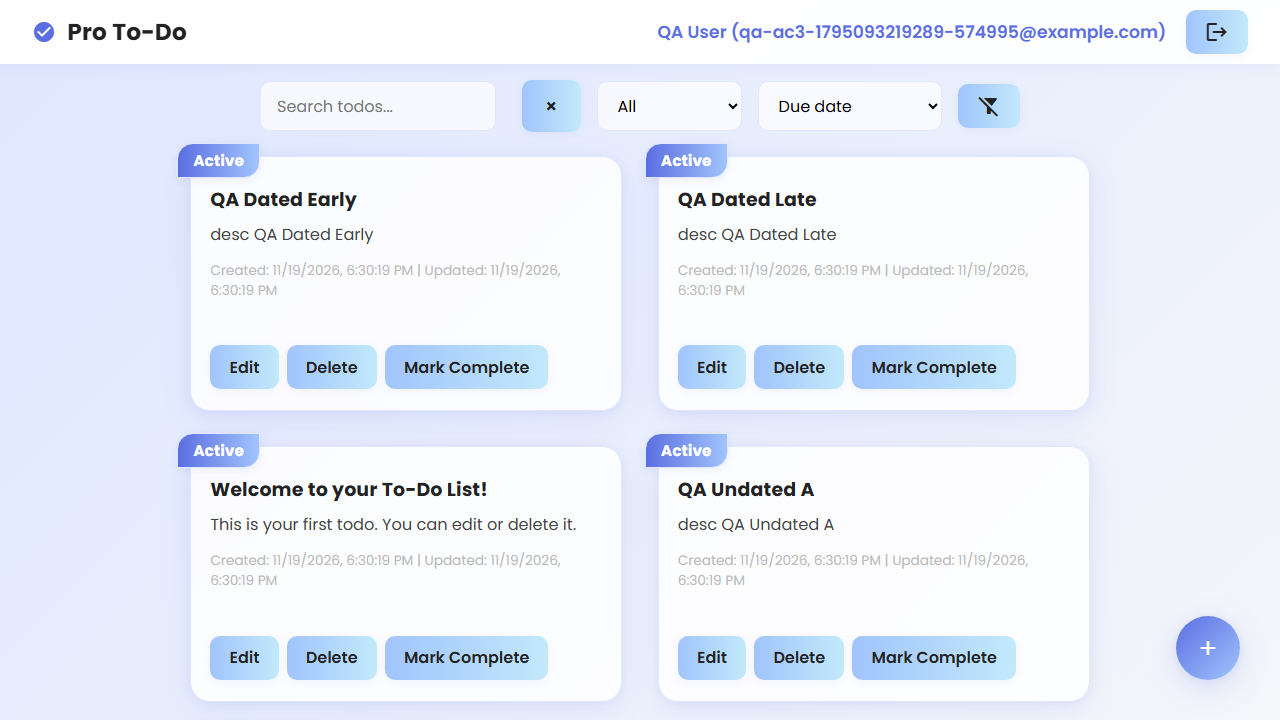
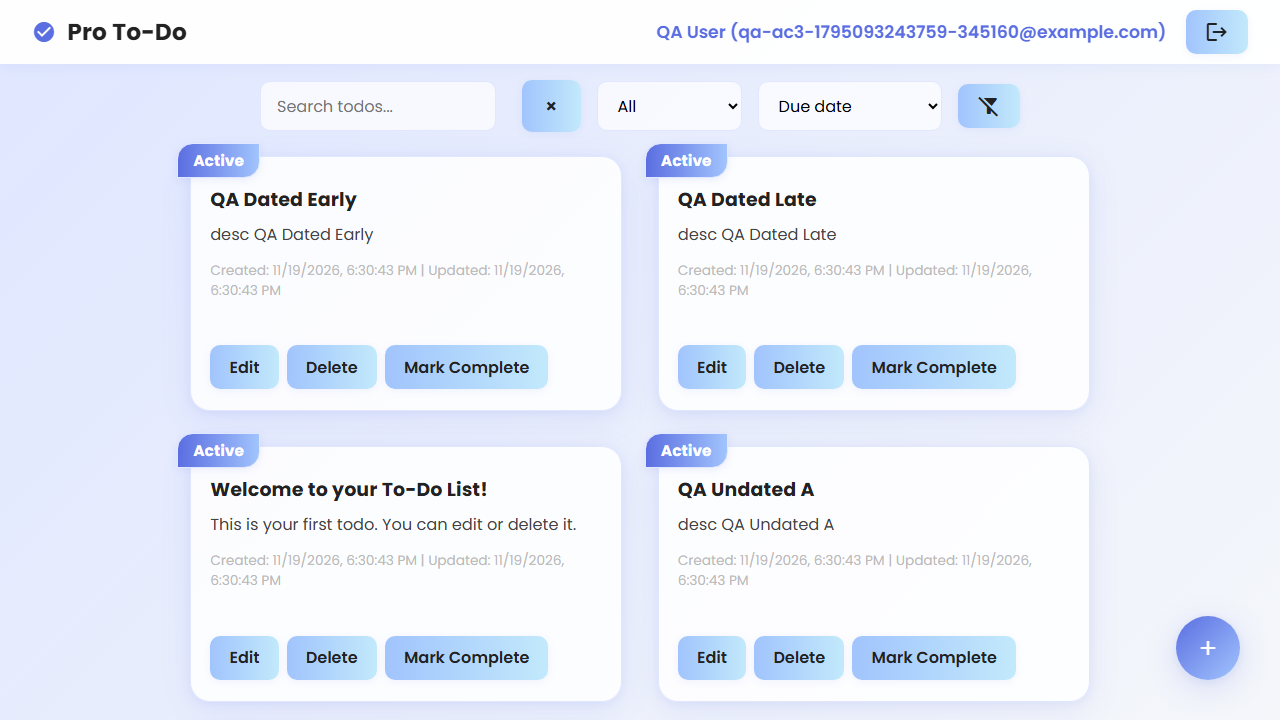
Add QA tests and execution results for KAN-152

diff --git a/qa/test-execution-results.md b/qa/test-execution-results.md
@@ -1,0 +1,103 @@
+# QA Test Execution Results - KAN-152 "Add 'Sort by due date' option in ToDo UI"
+
+| Item | Value |
+|------|-------|
+| PR | #16 (https://github.com/SoumyaRathi/Codemie-ToDoApp/pull/16) |
+| Branch | KAN-152 |
+| Tested commit SHA | `57a4ef6ef8c64f0383b3a1f6038a3239a313ab6c` |
+| Executed | 2026-11-19, about 18:31 IST |
+| Environment | Windows 11 Enterprise 10.0.26200, Node v24.21.0, npm 11.19.0 |
+| Tooling | Jest 30.5.2 + Supertest 6.3.3, Playwright 1.65.1 (Chromium, headless) |
+
+The tests ran on a clean tracked tree at the SHA above. The commit that adds this report changes only this file and the regenerated screenshots in `qa/screenshots/`. No code under test differs from the tested SHA.
+
+## Findings from the code (what the tests are based on)
+
+- Sort control: `<select id="sort-select" data-testid="sort-select">` in `index.html`. Options: `Sort by Created`, `Sort by Updated`, `Sort by Title`, and the new `Due date` (value `dueDate`). **The new option is labelled "Due date", not "Sort by due date".** The tests assert the label that is actually in the PR.
+- Due date field: `dueDate`, a `YYYY-MM-DD` string. It is omitted from the todo object when not set. The API accepts a valid value, `null` or `""` (clears it), and rejects anything else with 400 `{ field: "dueDate" }`.
+- Ordering rule (`compareByDueDate` in `todoServer.js`): ascending by `dueDate`, undated todos last, ties and undated-vs-undated broken by `id` ascending. The tests assert exactly this.
+- Persistence: the selected sort is stored in `sessionStorage` (`todoapp.sort`) and restored on reload.
+- Auth: the UI requires login. E2E tests register a unique user through the API, then log in through the UI login form. Each new user automatically gets one undated "Welcome to your To-Do List!" todo, which the expected orders account for.
+- The UI has no due-date input and does not display `dueDate` on cards. Todos with due dates are therefore created through the API in the E2E setup, and ordering is asserted via card titles.
+
+## Commands executed (exact)
+
+```
+git fetch origin
+git checkout KAN-152
+git pull
+npm ci
+npm install --save-dev jest@^30.5.2 @playwright/test@^1.64.1
+npx playwright install chromium
+npx jest --config qa/jest.config.js --verbose      # also available as: npm run test:api
+npm run test:e2e                                   # = playwright test --config qa/playwright.config.js
+npm test                                           # existing suite: node --test "test/**/*.test.js"
+```
+
+Isolation: both suites use temporary data files through the `TODOS_FILE`, `USERS_FILE` and `SESSIONS_FILE` env overrides, so the repo's real `todos.json`, `users.json` and `sessions.json` are never touched. The E2E server runs on port 3100 (`PORT` env). Temp data is removed in teardown.
+
+## Results summary
+
+| Suite | Total | Passed | Failed | Skipped | Blocked |
+|-------|------:|-------:|-------:|--------:|--------:|
+| API (Jest + Supertest) | 12 | 12 | 0 | 0 | 0 |
+| E2E (Playwright, Chromium) | 6 | 6 | 0 | 0 | 0 |
+| **Overall** | **18** | **18** | **0** | **0** | **0** |
+
+Regression check (not counted above): the existing `npm test` suite (node:test, from the review-blocker commit) passed 8 of 8.
+
+Overall status: **PASS**
+
+## Test case detail
+
+### API (Jest + Supertest) - `qa/api/dueDateSort.api.test.js`
+
+| ID | Title | AC | Type | Result |
+|----|-------|----|------|--------|
+| API-01 | POST /todos with dueDate stores and returns the dueDate field | AC2 | API | PASS |
+| API-02 | POST /todos without dueDate is retrievable and has no dueDate value | AC3 | API | PASS |
+| API-03 | GET /todos?sort=dueDate returns dated todos in ascending dueDate order | AC2 | API | PASS |
+| API-04 | GET /todos?sort=dueDate places every undated todo after all dated todos | AC3 | API | PASS |
+| API-05 | Seeded data produces the exact expected order (ties and undated by id asc) | AC2, AC3 | API | PASS |
+| API-06 | Repeated requests return an identical order (deterministic) | AC3 | API | PASS |
+| API-07 | sort=dueDate combined with filter and search keeps due-date ordering | AC2 | API | PASS |
+| API-08 | User with only undated todos gets 200, all todos listed, ordered by id | AC3 | API | PASS |
+| API-09 | Todos of other users are never included in the sorted list | AC2 | API | PASS |
+| API-10 | PUT with a new dueDate re-positions the todo; PUT with null clears it to the end | AC2 | API | PASS |
+| API-11 | Invalid dueDate values are rejected with 400 | AC2 | API | PASS |
+| API-12 | GET /todos?sort=dueDate without auth returns 401 | AC2 | API | PASS |
+
+Evidence: Jest JSON result `numTotalTests: 12, numPassedTests: 12, numFailedTests: 0, numPendingTests: 0`; console summary `Tests: 12 passed, 12 total`.
+
+### E2E (Playwright, Chromium headless) - `qa/e2e/dueDateSort.spec.js`
+
+| ID | Title | AC | Type | Result | Evidence |
+|----|-------|----|------|--------|----------|
+| E2E-AC1-01 | Sort control is visible and offers a selectable "Due date" option | AC1 | E2E | PASS | `qa/screenshots/ac1-sort-control.png` |
+| E2E-AC2-01 | Selecting "Due date" reorders todos by due date ascending | AC2 | E2E | PASS | `qa/screenshots/ac2-sorted-by-due-date.png` |
+| E2E-AC2-02 | Due date sort stays applied after a page reload (session persistence) | AC2 | E2E | PASS | assertions in spec |
+| E2E-AC3-01 | Todos without a due date stay visible and are placed after dated todos | AC3 | E2E | PASS | `qa/screenshots/ac3-undated-last.png` |
+| E2E-AC3-02 | Placement of undated todos is deterministic across re-sorts and reloads | AC3 | E2E | PASS | assertions in spec |
+| E2E-AC3-03 | A user with only undated todos sees them all, without errors | AC3 | E2E | PASS | assertions in spec |
+
+Console summary of the final run: `6 passed (11.2s)`.
+
+What the E2E tests assert:
+- **AC1:** the select is visible and enabled, exactly one `Due date` option with value `dueDate`, the full option list is `Sort by Created / Updated / Title / Due date`, selecting it works, and the feedback banner shows `Sort: Due date`.
+- **AC2:** three todos are created out of due-date order. The default (created) order is `Middle, Soonest, Later, Welcome`. After selecting Due date the UI shows `Soonest (2026-01-05), Middle (2026-05-20), Later (2026-09-30), Welcome`.
+- **AC3:** undated todos are all displayed, after the dated ones, in id order. The order is identical after switching to Title and back, and after a reload. An all-undated user gets the list with no page errors.
+
+## Notes and defects
+
+1. **No product defects found** against the KAN-152 acceptance criteria.
+2. **First E2E run: 6 of 6 failed, due to a test-setup bug, not a product bug.** The temporary data directory did not exist, so the server could not write `users.json`, and login after signup returned 401. Fixed in `qa/playwright.config.js` by creating the directory; the rerun and the final run passed 6 of 6. The final figures above are from the final run on the tested SHA.
+3. **Label mismatch with the planning documents:** the PR label is "Due date"; `IMPLEMENTATION_PLAN.md` and the Confluence Plan page say "Sort by Due Date". The story AC says "Due date", so this is consistent with the AC.
+4. **Observation (out of scope, not changed):** `POST /signup` returns 201 even when writing `users.json` fails (the write error is swallowed). This is what hid the setup problem in note 2.
+5. **Observation (out of scope, not changed):** the UI cannot set or display a due date, so the sort can only be exercised with todos created through the API. The sort's effect is not visible to a user except through card order.
+6. **Test hooks added to product code (behavior unchanged):** `data-testid="sort-select"` (`index.html`), `data-testid="todo-card"` and `data-testid="todo-title"` (`public/script.js`), and `PORT` env override (`todoServer.js`).
+7. **Dependencies:** `jest` and `@playwright/test` were added to `devDependencies`. They were already installed locally but not declared. `package-lock.json` shows large churn from regenerating the lockfile with npm 11.
+
+## Artifacts
+
+- Screenshots: `qa/screenshots/ac1-sort-control.png`, `qa/screenshots/ac2-sorted-by-due-date.png`, `qa/screenshots/ac3-undated-last.png`
+- Playwright is configured to keep a screenshot and trace on failure under `qa/.artifacts/` (git-ignored). The final run had no failures, so none were produced.
